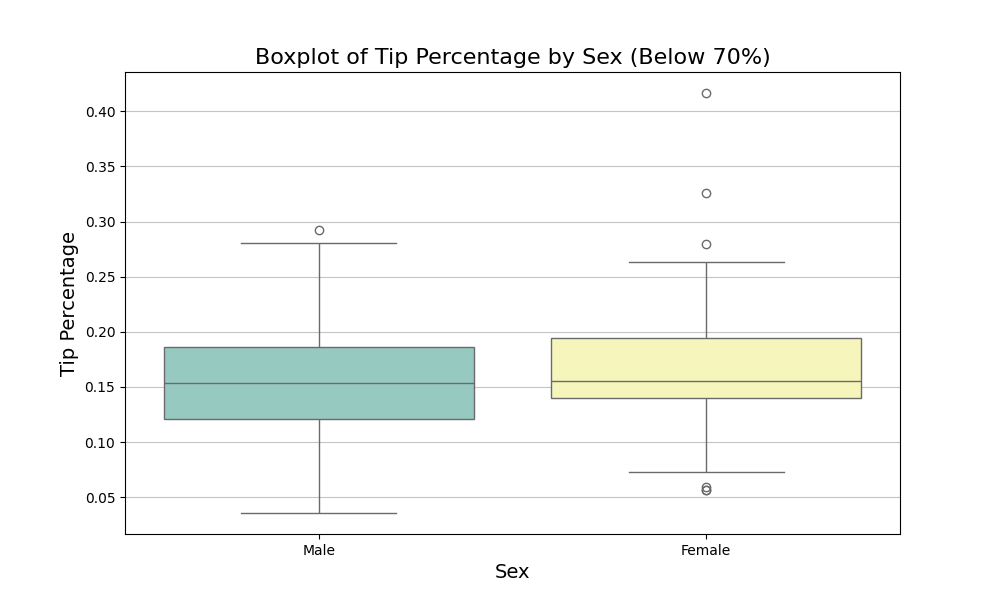
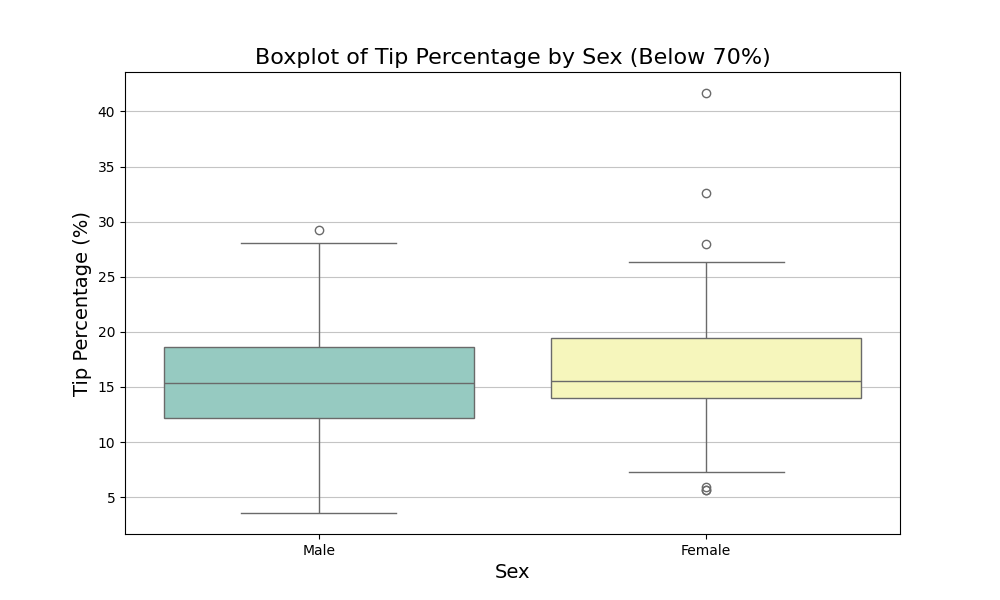
confirmation of instructions

diff --git a/Exploratory_Data_Analysis.py b/Exploratory_Data_Analysis.py
@@ -213,10 +213,10 @@ print("----------------------------------------------------")
 
 #get the tips dataset from seaborn
 tips_df = sns.load_dataset('tips')
-tips_df.head()
+tips_df['tip_percent'] = ((tips_df['tip'] / tips_df['total_bill']) * 100).round(2)
 
 print(f"Tips Dataset Dimensions: {tips_df.shape[0]} rows and {tips_df.shape[1]} columns")
-print("First 5 rows of the dataset:")
+print("First 5 rows of the dataset with tip_percent column:")
 print(tips_df.head())
 
 
@@ -225,11 +225,14 @@ print("\n")
 print("----------------------------------------------------")
 print("3.2: Days of the Week and Highest Bill")
 print("----------------------------------------------------")
-max_bill_index = tips_df['total_bill'].idxmax()
-day_of_max_bill = tips_df.loc[max_bill_index, 'day']
-max_bill_amount = tips_df.loc[max_bill_index, 'total_bill']
-print(f"Day with Highest Total Bill: {day_of_max_bill}")
-print(f"Highest Total Bill Amount: ${max_bill_amount:.2f}")
+available_days = tips_df['day'].dropna().unique()
+print(f"Days represented in the dataset: {sorted(available_days)}")
+
+avg_bill_by_day = tips_df.groupby('day')['total_bill'].mean().round(2)
+day_highest_avg_bill = avg_bill_by_day.idxmax()
+print("\nAverage total bill amount by day:")
+print(avg_bill_by_day)
+print(f"\nDay with highest average total bill: {day_highest_avg_bill} (${avg_bill_by_day[day_highest_avg_bill]:.2f})")
 
 
 #3.3 Lunch vs Dinner Smoker Analysis
@@ -253,7 +256,6 @@ smoker_total = tips_df.groupby('time')['smoker'].value_counts().unstack(fill_val
 smokers_yesNo = smoker_total.get('Yes', pd.Series(0, index=smoker_total.index))
 
 #Join Dataframe
-# Join dataframes
 combined_diners = pd.DataFrame({
     'total_count': time_count['Total Count'],
     'smokers': smokers_yesNo
@@ -269,18 +271,16 @@ print("\nObservation: Dinner has a higher total number of customers as well as a
 #3.4 Boxplot of Total Bill by Sex
 print("\n")
 print("----------------------------------------------------")
-print("3.4: Boxplot of Total Bill by Sex")
+print("3.4: Boxplot of Tip by Sex")
 print("----------------------------------------------------")
 plt.figure(figsize=(10, 6))
-sns.boxplot
-plt.figure(figsize=(10, 6))
-sns.boxplot(x='sex', y='total_bill', data=tips_df, palette='Set2')
-plt.title('Boxplot of Total Bill by Sex', fontsize=16)
+sns.boxplot(x='sex', y='tip', data=tips_df, palette='Set2')
+plt.title('Boxplot of Tip by Sex', fontsize=16)
 plt.xlabel('Sex', fontsize=14)  
-plt.ylabel('Total Bill ($)', fontsize=14)
+plt.ylabel('Tip Amount ($)', fontsize=14)
 plt.grid(axis='y', alpha=0.75)
-plt.savefig('total_bill_by_sex_boxplot.png')
-print("Boxplot saved as 'total_bill_by_sex_boxplot.png'")
+plt.savefig('tip_by_sex_boxplot.png')
+print("Boxplot saved as 'tip_by_sex_boxplot.png'")
 #plt.show()
 plt.close()     
 
@@ -305,29 +305,28 @@ print(f"\nNumber of Outliers in Tips")
 print(f"Males: {male_outliers_count}")
 print(f"Females: {female_outliers_count}")
 
-print("\nObservation: The boxplot indicates that males generally have a higher tip amount compared to females.")
+outlier_group = 'males' if male_outliers_count > female_outliers_count else 'females'
+print(f"\nObservation: The boxplot alongside the outlier counts shows that {outlier_group} produce more extreme tip values.")
 
 #3.5 Boxblot of Tip Percentage by Sex that are below 70%
 print("\n")
 print("------------------------------------------------------------")
 print("3.5: Boxplot of Tip Percentage by Sex that are below 70%")
 print("------------------------------------------------------------")
-tips_df_filtered = tips_df.assign(
-    tip_percentage=tips_df['tip'] / tips_df['total_bill']
-).loc[lambda df: df['tip_percentage'] < 0.7]
+tips_df_filtered = tips_df[tips_df['tip_percent'] < 70].copy()
 plt.figure(figsize=(10, 6))
-sns.boxplot(x='sex', y='tip_percentage', data=tips_df_filtered, palette='Set3')
+sns.boxplot(x='sex', y='tip_percent', data=tips_df_filtered, palette='Set3')
 plt.title('Boxplot of Tip Percentage by Sex (Below 70%)', fontsize=16)
 plt.xlabel('Sex', fontsize=14)  
-plt.ylabel('Tip Percentage', fontsize=14)
+plt.ylabel('Tip Percentage (%)', fontsize=14)
 plt.grid(axis='y', alpha=0.75)
 plt.savefig('tip_percentage_by_sex_boxplot.png')
 print("Boxplot saved as 'tip_percentage_by_sex_boxplot.png'")
 #plt.show()
 plt.close() 
 
-male_percentages = tips_df_filtered[tips_df_filtered['sex'] == 'Male']['tip_percentage']
-female_percentages = tips_df_filtered[tips_df_filtered['sex'] == 'Female']['tip_percentage']
+male_percentages = tips_df_filtered[tips_df_filtered['sex'] == 'Male']['tip_percent']
+female_percentages = tips_df_filtered[tips_df_filtered['sex'] == 'Female']['tip_percent']
 
 #outliers count
 male_percentage_outliers = count_outliers(male_percentages)
@@ -342,7 +341,28 @@ print(f"\nOutlier/Skewness Analysis of Tip Percentages")
 print(f"Male Outliers: {male_percentage_outliers}, Skewness: {male_is_skewed:.4f}")
 print(f"Female Outliers: {female_percentage_outliers}, Skewness: {female_is_skewed:.4f}")
 print(f"\n{'Males' if male_percentage_outliers > female_percentage_outliers else 'Females'} have more outliers in tip percentage.")
-print(f"{'Males' if abs(male_is_skewed) < abs(female_is_skewed) else 'Females'} have less skewed distribution of data.")
+
+def _skew_magnitude(value):
+    if pd.isna(value):
+        return None
+    numeric_value = float(value)
+    return numeric_value * numeric_value
+
+male_skew_magnitude = _skew_magnitude(male_is_skewed)
+female_skew_magnitude = _skew_magnitude(female_is_skewed)
+if male_skew_magnitude is None and female_skew_magnitude is None:
+    skew_message = "Skewness comparison unavailable due to insufficient data."
+elif male_skew_magnitude is None:
+    skew_message = "Females have less skewed distribution of data."
+elif female_skew_magnitude is None:
+    skew_message = "Males have less skewed distribution of data."
+elif male_skew_magnitude < female_skew_magnitude:
+    skew_message = "Males have less skewed distribution of data."
+elif male_skew_magnitude > female_skew_magnitude:
+    skew_message = "Females have less skewed distribution of data."
+else:
+    skew_message = "Males and Females have similarly skewed distributions."
+print(skew_message)
 
 
 
@@ -374,16 +394,24 @@ print(f"\nMissing values summary:\n{missing_values[missing_values['Missing_Count
 #Missing Values Handling
 print("\nHandling missing values...")
 
-print("Fill 'Type' missing values with mode...")
-avocado_df['Type'] = avocado_df['Type'].fillna(avocado_df['Type'].mode()[0])
+numeric_columns = avocado_df.select_dtypes(include='number').columns
+categorical_columns = avocado_df.select_dtypes(include='object').columns
 
-print("Fill 'Year' missing values with median...")
-avocado_df['Year'] = avocado_df['Year'].fillna(avocado_df['Year'].median())
+for column in categorical_columns:
+    missing_count = avocado_df[column].isna().sum()
+    if missing_count > 0:
+        replacement = avocado_df[column].mode().iat[0]
+        avocado_df[column] = avocado_df[column].fillna(replacement)
+        print(f"Filled missing values in '{column}' with mode '{replacement}' because it preserves the most common category.")
 
-print("Fill AllSize with 0 for missing values...")
-avocado_df['AllSizes'] = avocado_df['AllSizes'].fillna(0) 
+for column in numeric_columns:
+    missing_count = avocado_df[column].isna().sum()
+    if missing_count > 0:
+        replacement = avocado_df[column].median()
+        avocado_df[column] = avocado_df[column].fillna(replacement)
+        print(f"Filled missing values in '{column}' with median {replacement:.2f} to limit the influence of outliers.")
 
-print(f"Total Missing Values: \n{avocado_df.isnull().sum()}") 
+print(f"\nRemaining missing values after imputation:\n{avocado_df.isnull().sum()}")
 
 #4.2 Convert to Categorical Data Type
 print("\n")
@@ -391,12 +419,12 @@ print("----------------------------------------------------")
 print("4.2: Convert to Categorical Data Type")
 print("----------------------------------------------------")
 avocado_df['Type'] = avocado_df['Type'].astype('category')
-avocado_df['Year'] = avocado_df['Year'].astype('category')
+avocado_df['Year'] = avocado_df['Year'].round().astype(int).astype('category')
 avocado_df['Region'] = avocado_df['Region'].astype('category')
+avocado_df['Date'] = pd.to_datetime(avocado_df['Date'], format='%Y-%m-%d')
 
 #Exclude TotalUS and West regions from Region
 avocado_df_no_west = avocado_df[~avocado_df['Region'].isin(['TotalUS', 'West'])].copy()
-avocado_df_no_west['Date'] = pd.to_datetime(avocado_df_no_west['Date'], format='%Y-%m-%d')
 avocado_df_no_west = avocado_df_no_west.sort_values(by='Date')
 
 print(f"Filtered Dataset Dimensions (excluding TotalUS and West): {avocado_df_no_west.shape[0]} rows and {avocado_df_no_west.shape[1]} columns")
@@ -407,8 +435,13 @@ mean_2016 = avocado_df_no_west[avocado_df_no_west['Year'] == 2016]['AveragePrice
 mean_2017 = avocado_df_no_west[avocado_df_no_west['Year'] == 2017]['AveragePrice'].mean()
 print(f"Mean Average Price in 2016: ${mean_2016:.2f}")
 print(f"Mean Average Price in 2017: ${mean_2017:.2f}")
-print("Observation: The mean average price of avocados increased from 2016 to 2017, indicating a ")
-print("rising trend in avocado prices during this period.")
+if mean_2017 > mean_2016:
+    comparison_note = "increased"
+elif mean_2017 < mean_2016:
+    comparison_note = "decreased"
+else:
+    comparison_note = "remained the same"
+print(f"Observation: The mean average price of avocados {comparison_note} from 2016 to 2017.")
 
 
 #4.3 Total Volume by Region Bar Chart
@@ -432,37 +465,40 @@ print("Bar chart saved as 'total_volume_by_region_bar_chart.png'")
 #plt.show()
 plt.close()
 
-highest_volume = vol_by_region.idxmax()
-print(f"\nRegion with Highest Total Volume: {highest_volume} with {vol_by_region.max():,.0f} units sold.")
+highest_volume_region = vol_by_region.idxmax()
+highest_volume_amount = vol_by_region.max()
+print(f"\nRegion with highest total volume: {highest_volume_region} with {highest_volume_amount:,.0f} units sold.")
 
-#Subset thing with histogram
-state_vol_data = avocado_df_no_west[
-    avocado_df_no_west['Region'].str.contains('California|Texas|Florida', na=False)
-]
-#create histogram
+region_focus_df = avocado_df_no_west[avocado_df_no_west['Region'] == highest_volume_region].copy()
+
 plt.figure(figsize=(10, 6))
-sns.histplot(data=state_vol_data, x='TotalVolume', hue='Region', element='step', stat='density', common_norm=False, bins=30)
-plt.title('Histogram of Total Volume for California, Texas, and Florida', fontsize=16)
-plt.xlabel('Total Volume', fontsize=14)
-plt.ylabel('Density', fontsize=14)
-plt.grid(alpha=0.75)
+sns.histplot(region_focus_df['AveragePrice'], bins=25, color='steelblue', edgecolor='black')
+plt.title(f'Histogram of Average Price in {highest_volume_region}', fontsize=16)
+plt.xlabel('Average Price ($)', fontsize=14)
+plt.ylabel('Frequency', fontsize=14)
+plt.grid(axis='y', alpha=0.75)
 plt.savefig('state_total_volume_histogram.png')
 print("Histogram saved as 'state_total_volume_histogram.png'")
 #plt.show()
 plt.close()
 
-print("\nObservation: California has the highest total volume of avocados sold among the regions, ")
-print("likely due to its large population and strong demand for avocados. ")
-print(f"Mean Price: ${state_vol_data[state_vol_data['Region'] == 'California']['AveragePrice'].mean():.2f} | ")
-print(f"Median Price: ${state_vol_data[state_vol_data['Region'] == 'California']['AveragePrice'].median():.2f}")
-print(f"Price Range: ${state_vol_data[state_vol_data['Region'] == 'California']['AveragePrice'].max() - state_vol_data[state_vol_data['Region'] == 'California']['AveragePrice'].min():.2f}")
+mean_price_region = region_focus_df['AveragePrice'].mean()
+median_price_region = region_focus_df['AveragePrice'].median()
+price_range_region = region_focus_df['AveragePrice'].max() - region_focus_df['AveragePrice'].min()
+print(f"\nObservation: In {highest_volume_region}, the mean average price is ${mean_price_region:.2f}, "
+      f"the median is ${median_price_region:.2f}, and prices vary across a range of ${price_range_region:.2f}.\n"
+      "The histogram highlights how prices cluster for the busiest market.")
 
-#Correlation between Average Price and Total Volume
-correlation_price_volume = state_vol_data['AveragePrice'].corr(state_vol_data['TotalVolume'])
-print(f"\nCorrelation coefficient between Average Price and Total Volume: {correlation_price_volume:.4f}") 
-print("Observation: There is a weak negative correlation between Average Price and Total Volume, suggesting that as the ")
-print("price of avocados increases, the total volume sold tends to decrease slightly. This indicates that higher prices ")
-print("may lead to reduced demand.")
+correlation_price_volume = region_focus_df['AveragePrice'].corr(region_focus_df['TotalVolume'])
+print(f"Correlation coefficient between Average Price and Total Volume in {highest_volume_region}: {correlation_price_volume:.4f}")
+if pd.notna(correlation_price_volume):
+    if correlation_price_volume > 0:
+        corr_note = "a slight positive relationship, meaning higher prices coincide with higher volumes in this market."
+    elif correlation_price_volume < 0:
+        corr_note = "a negative relationship, where higher prices tend to align with lower sales volume."
+    else:
+        corr_note = "no linear relationship between price and volume."
+    print(f"Interpretation: The correlation indicates {corr_note}")
 
 
 #4.4 Timeline Plot
@@ -472,19 +508,20 @@ print("4.4: Timeline Plot of Average Price Over Time")
 print("----------------------------------------------------")
 
 monthly_vol = avocado_df_no_west.copy()
-monthly_vol['Month'] = monthly_vol['Month'] = monthly_vol['Date'].dt.month
-monthly_vol['Year'] = monthly_vol['Year'] = monthly_vol['Date'].dt.year
+monthly_vol['Year'] = monthly_vol['Date'].dt.year
+monthly_vol['Month'] = monthly_vol['Date'].dt.month
 
 #Group them thangs
 timeline = (
     monthly_vol.groupby(["Year", "Month"])["TotalVolume"].sum().reset_index()
 )
+timeline['PeriodStart'] = pd.to_datetime(dict(year=timeline['Year'], month=timeline['Month'], day=1))
 
 #Plot that Timeline
 plt.figure(figsize=(12, 6))
 sns.lineplot(
     data=timeline,
-    x=pd.to_datetime(timeline[['Year', 'Month']].assign(DAY=1)),
+    x='PeriodStart',
     y='TotalVolume',
     marker='o',
     color='orange'
@@ -493,7 +530,6 @@ plt.title('Timeline of Total Volume of Avocados Sold Over Time', fontsize=16)
 plt.xlabel('Date', fontsize=14)
 plt.ylabel('Total Volume', fontsize=14)
 plt.grid(alpha=0.75)
-plt.xticks(range(1, 13), ['Jan', 'Feb', 'Mar', 'Apr', 'May', 'Jun', 'Jul', 'Aug', 'Sep', 'Oct', 'Nov', 'Dec'])
 plt.savefig('timeline_total_volume_over_time.png')
 print("Timeline plot saved as 'timeline_total_volume_over_time.png'")
 #plt.show()
@@ -503,10 +539,17 @@ plt.close()
 month_avg_volume = monthly_vol.groupby('Month')['TotalVolume'].mean()
 highest_volume_month = int(month_avg_volume.idxmax())
 month_names = ['', 'January', 'February', 'March', 'April', 'May', 'June', 'July', 'August', 'September', 'October', 'November', 'December']
+top_month_each_year = timeline.loc[timeline.groupby('Year')['TotalVolume'].idxmax(), ['Year', 'Month']]
+unique_top_months = top_month_each_year['Month'].unique()
+if len(unique_top_months) == 1:
+    consistency_note = f"{month_names[unique_top_months[0]]} dominates every year in the dataset."
+else:
+    consistency_note = "Peak sales months vary year by year, although the following months appear most frequently: " + \
+        ", ".join(sorted({month_names[m] for m in unique_top_months}))
 
-print(f"\nObservation: The month with the highest average total volume of avocados sold is {month_names[highest_volume_month]} with an ")
-print("average volume of {month_avg_volume.max():,.0f} units. This could be due to seasonal factors such as increased demand during ")
-print("warmer months or holidays. It could have also just been a good month for guac")
+print(f"\nObservation: The month with the highest overall average volume is {month_names[highest_volume_month]} "
+      f"with an average of {month_avg_volume.max():,.0f} units sold.")
+print(f"{consistency_note} A likely driver of these peaks is demand tied to food-centric events (e.g., summer barbecues or the NFL playoffs) and promotional cycles that boost avocado consumption.")
 
 
 #Thata a wrap
